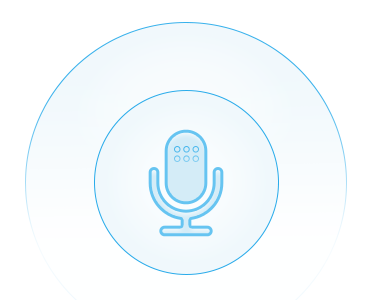
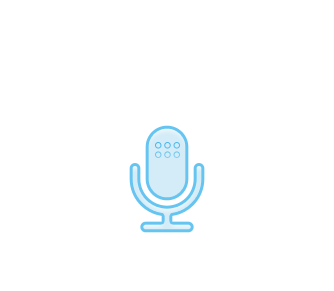
listening ui fix

diff --git a/client/app/scripts/routes/rooms/rooms.index.tpl.html b/client/app/scripts/routes/rooms/rooms.index.tpl.html
@@ -17,11 +17,13 @@
         </div>
     </div>
     <div class="room-signal" ng-show="!ctrl.prof">
-        <div class="room-signal-content">
+        <div class="room-signal-content search">
             <h3>Start listening for rooms</h3>
-            <img src="/images/mikro.png">
+            <div class="mik-holder">
+                <img src="/images/mikro.png">
+            </div>
             <div class="wave">
-                <canvas width=256 height=100></canvas>
+                <canvas width=384 height=100></canvas>
             </div>
             <div>
                 <p>Hive verwendet ihr Mikrofon um nach umliegenden Räumen zu suchen.</p>

diff --git a/client/app/styles/views/rooms.scss b/client/app/styles/views/rooms.scss
@@ -49,6 +49,11 @@
 			display: table-cell;
 			vertical-align: middle;
 
+			&.search{
+				background: url(/images/mikro_bg.png) no-repeat center 55px;
+			}
+			
+
 			h2, h3 {
 				//color: $hive-blue;
 				text-transform: uppercase;
@@ -62,11 +67,23 @@
 			.wave {
 				position: absolute;
 				left: 50%;
-				margin-left: -125px;
+				margin-left: -192px;
 				margin-top: -75px;
 				opacity: 1;
+				margin-top: -142px;
+				z-index:1;
 			}
 
+			.mik-holder{
+				height:294px;
+
+				img{
+					position:absolute;
+					left:50%;
+					margin-left:-167px;
+					z-index:2;
+				}
+			}
 
 			.input-group {
                 width: 100%;

diff --git a/server/app/filters/authorize.js b/server/app/filters/authorize.js
@@ -3,7 +3,6 @@ var User = Risotto.models.user;
 Risotto.before('authorize', function*(){
 	if( !this.session.authorized ){
 		this.koaContext.status = 403;
-		this.koaContext.redirect('/user/login');
 		throw new Error('Not authorized');
 	}
 });
